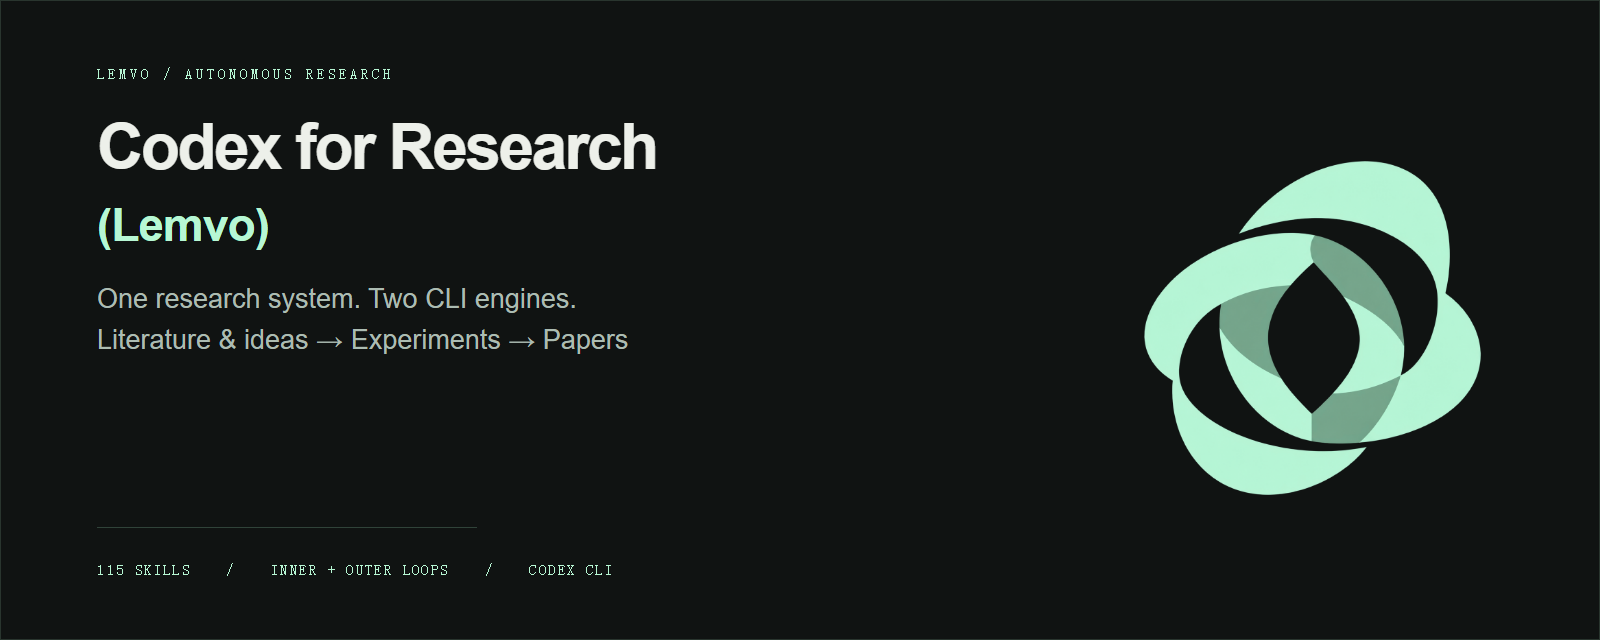
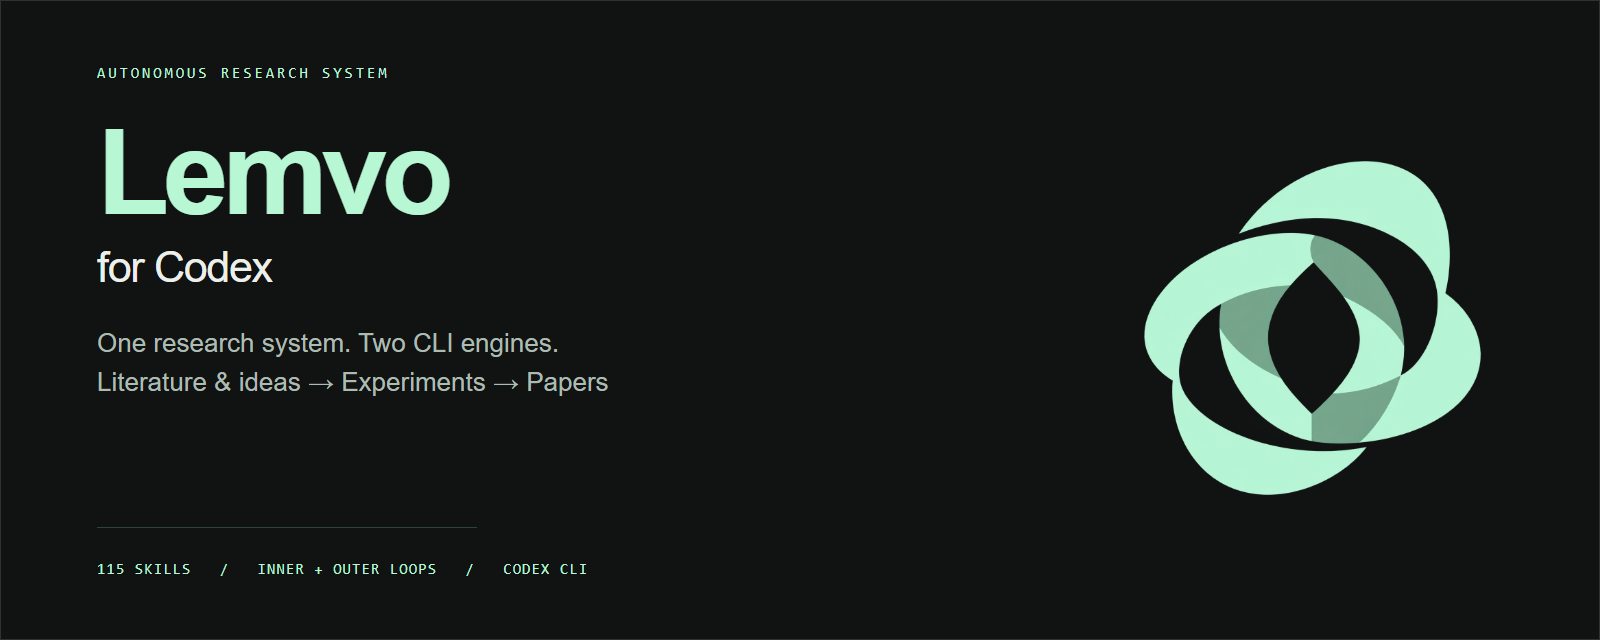
Lead with Lemvo brand for Claude Code and Codex

diff --git a/README.md b/README.md
@@ -1,15 +1,15 @@
-<p align="center"><a href="https://yichen-zju.github.io/claude-for-research/"><img src="assets/research-cover.png?v=lemvo-1" alt="Codex for Research (Lemvo) — One research system. Two CLI engines." width="100%"></a></p>
+<p align="center"><a href="https://yichen-zju.github.io/claude-for-research/"><img src="assets/research-cover.png?v=lemvo-primary-2" alt="Lemvo for Codex — One research system. Two CLI engines." width="100%"></a></p>
 
-<h1 align="center">Codex for Research (Lemvo)</h1>
+<h1 align="center">Lemvo for Codex</h1>
 <p align="center"><strong>一套自主科研体系，两种 CLI 引擎。<br>One research system. Two CLI engines.</strong><br>让想法，走到发现。 / From an idea. To a discovery.</p>
-<p align="center"><a href="https://yichen-zju.github.io/claude-for-research/?lang=zh">Lemvo 中文主页</a> · <a href="https://yichen-zju.github.io/claude-for-research/?lang=en">Lemvo in English</a> · <a href="#quickstart">Quickstart</a> · <a href="https://github.com/Yichen-ZJU/claude-for-research">Claude for Research (Lemvo)</a></p>
+<p align="center"><a href="https://yichen-zju.github.io/claude-for-research/?lang=zh">Lemvo 中文主页</a> · <a href="https://yichen-zju.github.io/claude-for-research/?lang=en">Lemvo in English</a> · <a href="#quickstart">Quickstart</a> · <a href="https://github.com/Yichen-ZJU/claude-for-research">Lemvo for Claude Code</a></p>
 <p align="center"><img src="https://img.shields.io/badge/skills-115-B7F7D4?style=flat-square&amp;labelColor=101312" alt="115 skills"> <img src="https://img.shields.io/badge/engine-Codex%20CLI-B7F7D4?style=flat-square&amp;labelColor=101312" alt="Codex CLI"> <img src="https://img.shields.io/badge/workflow-research%20%E2%86%92%20experiments%20%E2%86%92%20papers-B7F7D4?style=flat-square&amp;labelColor=101312" alt="Research to experiments to papers"></p>
 
-**Lemvo** 是运行在 Claude Code 与 Codex CLI 上的自主科研体系。**Codex for Research (Lemvo)** 把 Codex CLI 变成科研工作台：从深广度文献调研与 Idea 构思，到无人值守的模型改进试验，再到论文写作与评审，由 **Research Orchestrator** 协调全程，**115 个科研技能**提供工作流与领域方法。
+**Lemvo** 是运行在 Claude Code 与 Codex CLI 上的自主科研体系。**Lemvo for Codex** 把 Codex CLI 变成科研工作台：从深广度文献调研与 Idea 构思，到无人值守的模型改进试验，再到论文写作与评审，由 **Research Orchestrator** 协调全程，**115 个科研技能**提供工作流与领域方法。
 
 选择 **Claude Code** 或 **Codex CLI**，保留同一套 Lemvo 科研流程。两个仓库各含 **115 个技能，技能名称集合一致**；工具调用与运行机制分别适配各自引擎。
 
-**Lemvo** brings one autonomous research system to **Claude Code** and **Codex CLI**. **Codex for Research (Lemvo)** equips Codex CLI with broad and deep literature research, idea development, unattended model-improvement experiments, and paper writing and review. **Research Orchestrator** coordinates the whole journey, supported by **115 research skills** and nested experiment and reflection loops. The same skill catalogue runs on Claude Code, with engine-specific tool adaptations.
+**Lemvo** brings one autonomous research system to **Claude Code** and **Codex CLI**. **Lemvo for Codex** equips Codex CLI with broad and deep literature research, idea development, unattended model-improvement experiments, and paper writing and review. **Research Orchestrator** coordinates the whole journey, supported by **115 research skills** and nested experiment and reflection loops. The same skill catalogue runs on Claude Code, with engine-specific tool adaptations.
 
 ## 一套流程，两层循环 / One workflow, two loops
 
